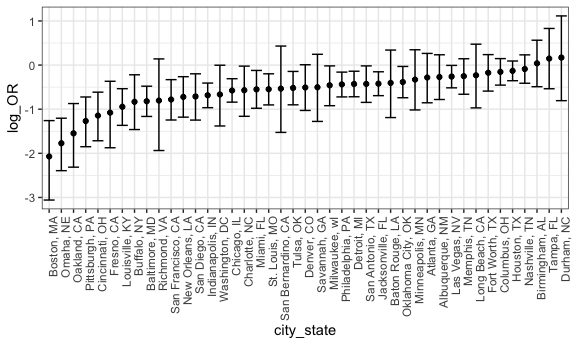
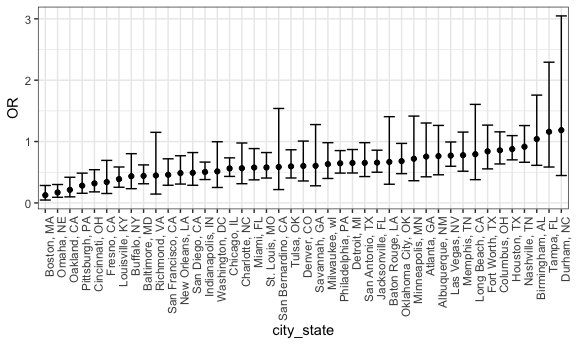
Q2: data cleaning

diff --git a/p8105_hw6_bs3142.md b/p8105_hw6_bs3142.md
@@ -92,8 +92,10 @@ homicides_statistics =
     ) %>%
   select(-data) %>%
   unnest() %>%
-  mutate(OR = exp(estimate)) %>%
-  select(city_state, term, OR, log_OR = estimate, starts_with("conf")) %>%
+  mutate(OR = exp(estimate),
+         conf.low = exp(conf.low),
+         conf.high = exp(conf.high)) %>%
+  select(city_state, term, OR, starts_with("conf")) %>%
   filter(term == "victim_racenon-white")
 ```
 
@@ -101,8 +103,8 @@ homicides_statistics =
 
 ``` r
 homicides_statistics %>%
-  mutate(city_state = fct_reorder(city_state, log_OR)) %>%
-  ggplot(aes(x = city_state, y = log_OR)) +
+  mutate(city_state = fct_reorder(city_state, OR)) %>%
+  ggplot(aes(x = city_state, y = OR)) +
   geom_point() +
   geom_errorbar(aes(ymin = conf.low, ymax = conf.high)) + 
   theme(axis.text.x = element_text(angle = 90, hjust = 1))
@@ -115,19 +117,96 @@ homicides_statistics %>%
 Problem 2
 ---------
 
-### Data Import
+### Data Import & Cleaning
 
 -   **Load and clean the data for regression analysis (i.e. convert numeric to factor where appropriate, check for missing data, etc.).**
 
 ``` r
 birthweight_data =
-  read_csv("./data/birthweight.csv")
-## Parsed with column specification:
-## cols(
-##   .default = col_integer(),
-##   gaweeks = col_double(),
-##   ppbmi = col_double(),
-##   smoken = col_double()
-## )
-## See spec(...) for full column specifications.
+  read_csv("./data/birthweight.csv", col_types = "dddddddddddddddddddd") %>%
+  mutate(babysex = as.factor(babysex),
+         frace = as.factor(frace),
+         malform = as.factor(malform),
+         mrace = as.factor(mrace))
+
+str(birthweight_data)
+## Classes 'tbl_df', 'tbl' and 'data.frame':    4342 obs. of  20 variables:
+##  $ babysex : Factor w/ 2 levels "1","2": 2 1 2 1 2 1 2 2 1 1 ...
+##  $ bhead   : num  34 34 36 34 34 33 33 33 36 33 ...
+##  $ blength : num  51 48 50 52 52 52 46 49 52 50 ...
+##  $ bwt     : num  3629 3062 3345 3062 3374 ...
+##  $ delwt   : num  177 156 148 157 156 129 126 140 146 169 ...
+##  $ fincome : num  35 65 85 55 5 55 96 5 85 75 ...
+##  $ frace   : Factor w/ 5 levels "1","2","3","4",..: 1 2 1 1 1 1 2 1 1 2 ...
+##  $ gaweeks : num  39.9 25.9 39.9 40 41.6 ...
+##  $ malform : Factor w/ 2 levels "0","1": 1 1 1 1 1 1 1 1 1 1 ...
+##  $ menarche: num  13 14 12 14 13 12 14 12 11 12 ...
+##  $ mheight : num  63 65 64 64 66 66 72 62 61 64 ...
+##  $ momage  : num  36 25 29 18 20 23 29 19 13 19 ...
+##  $ mrace   : Factor w/ 4 levels "1","2","3","4": 1 2 1 1 1 1 2 1 1 2 ...
+##  $ parity  : num  3 0 0 0 0 0 0 0 0 0 ...
+##  $ pnumlbw : num  0 0 0 0 0 0 0 0 0 0 ...
+##  $ pnumsga : num  0 0 0 0 0 0 0 0 0 0 ...
+##  $ ppbmi   : num  26.3 21.3 23.6 21.8 21 ...
+##  $ ppwt    : num  148 128 137 127 130 115 105 119 105 145 ...
+##  $ smoken  : num  0 0 1 10 1 0 0 0 0 4 ...
+##  $ wtgain  : num  29 28 11 30 26 14 21 21 41 24 ...
+skimr::skim(birthweight_data)
+## Skim summary statistics
+##  n obs: 4342 
+##  n variables: 20 
+## 
+## ── Variable type:factor ────────────────────────────────────────────────────────────
+##  variable missing complete    n n_unique                      top_counts
+##   babysex       0     4342 4342        2         1: 2230, 2: 2112, NA: 0
+##     frace       0     4342 4342        5 1: 2123, 2: 1911, 4: 248, 3: 46
+##   malform       0     4342 4342        2           0: 4327, 1: 15, NA: 0
+##     mrace       0     4342 4342        4 1: 2147, 2: 1909, 4: 243, 3: 43
+##  ordered
+##    FALSE
+##    FALSE
+##    FALSE
+##    FALSE
+## 
+## ── Variable type:numeric ───────────────────────────────────────────────────────────
+##  variable missing complete    n      mean     sd     p0     p25     p50
+##     bhead       0     4342 4342   33.65     1.62  21      33      34   
+##   blength       0     4342 4342   49.75     2.72  20      48      50   
+##       bwt       0     4342 4342 3114.4    512.15 595    2807    3132.5 
+##     delwt       0     4342 4342  145.57    22.21  86     131     143   
+##   fincome       0     4342 4342   44.11    25.98   0      25      35   
+##   gaweeks       0     4342 4342   39.43     3.15  17.7    38.3    39.9 
+##  menarche       0     4342 4342   12.51     1.48   0      12      12   
+##   mheight       0     4342 4342   63.49     2.66  48      62      63   
+##    momage       0     4342 4342   20.3      3.88  12      18      20   
+##    parity       0     4342 4342    0.0023   0.1    0       0       0   
+##   pnumlbw       0     4342 4342    0        0      0       0       0   
+##   pnumsga       0     4342 4342    0        0      0       0       0   
+##     ppbmi       0     4342 4342   21.57     3.18  13.07   19.53   21.03
+##      ppwt       0     4342 4342  123.49    20.16  70     110     120   
+##    smoken       0     4342 4342    4.15     7.41   0       0       0   
+##    wtgain       0     4342 4342   22.08    10.94 -46      15      22   
+##      p75   p100     hist
+##    35      41   ▁▁▁▁▅▇▁▁
+##    51      63   ▁▁▁▁▁▇▁▁
+##  3459    4791   ▁▁▁▃▇▇▂▁
+##   157     334   ▁▇▅▁▁▁▁▁
+##    65      96   ▁▂▇▂▂▂▁▃
+##    41.1    51.3 ▁▁▁▁▃▇▁▁
+##    13      19   ▁▁▁▁▂▇▁▁
+##    65      77   ▁▁▁▅▇▂▁▁
+##    22      44   ▂▇▅▂▁▁▁▁
+##     0       6   ▇▁▁▁▁▁▁▁
+##     0       0   ▁▁▁▇▁▁▁▁
+##     0       0   ▁▁▁▇▁▁▁▁
+##    22.91   46.1 ▁▇▅▁▁▁▁▁
+##   134     287   ▁▇▆▁▁▁▁▁
+##     5      60   ▇▁▁▁▁▁▁▁
+##    28      89   ▁▁▁▇▇▁▁▁
 ```
+
+**Comment:** There is no missing value in the dataset.
+
+### Q & A
+
+**1. Propose a regression model for birthweight. This model may be based on a hypothesized structure for the factors that underly birthweight, on a data-driven model-building process, or a combination of the two. Describe your modeling process and show a plot of model residuals against fitted values – use add\_predictions and add\_residuals in making this plot.**
